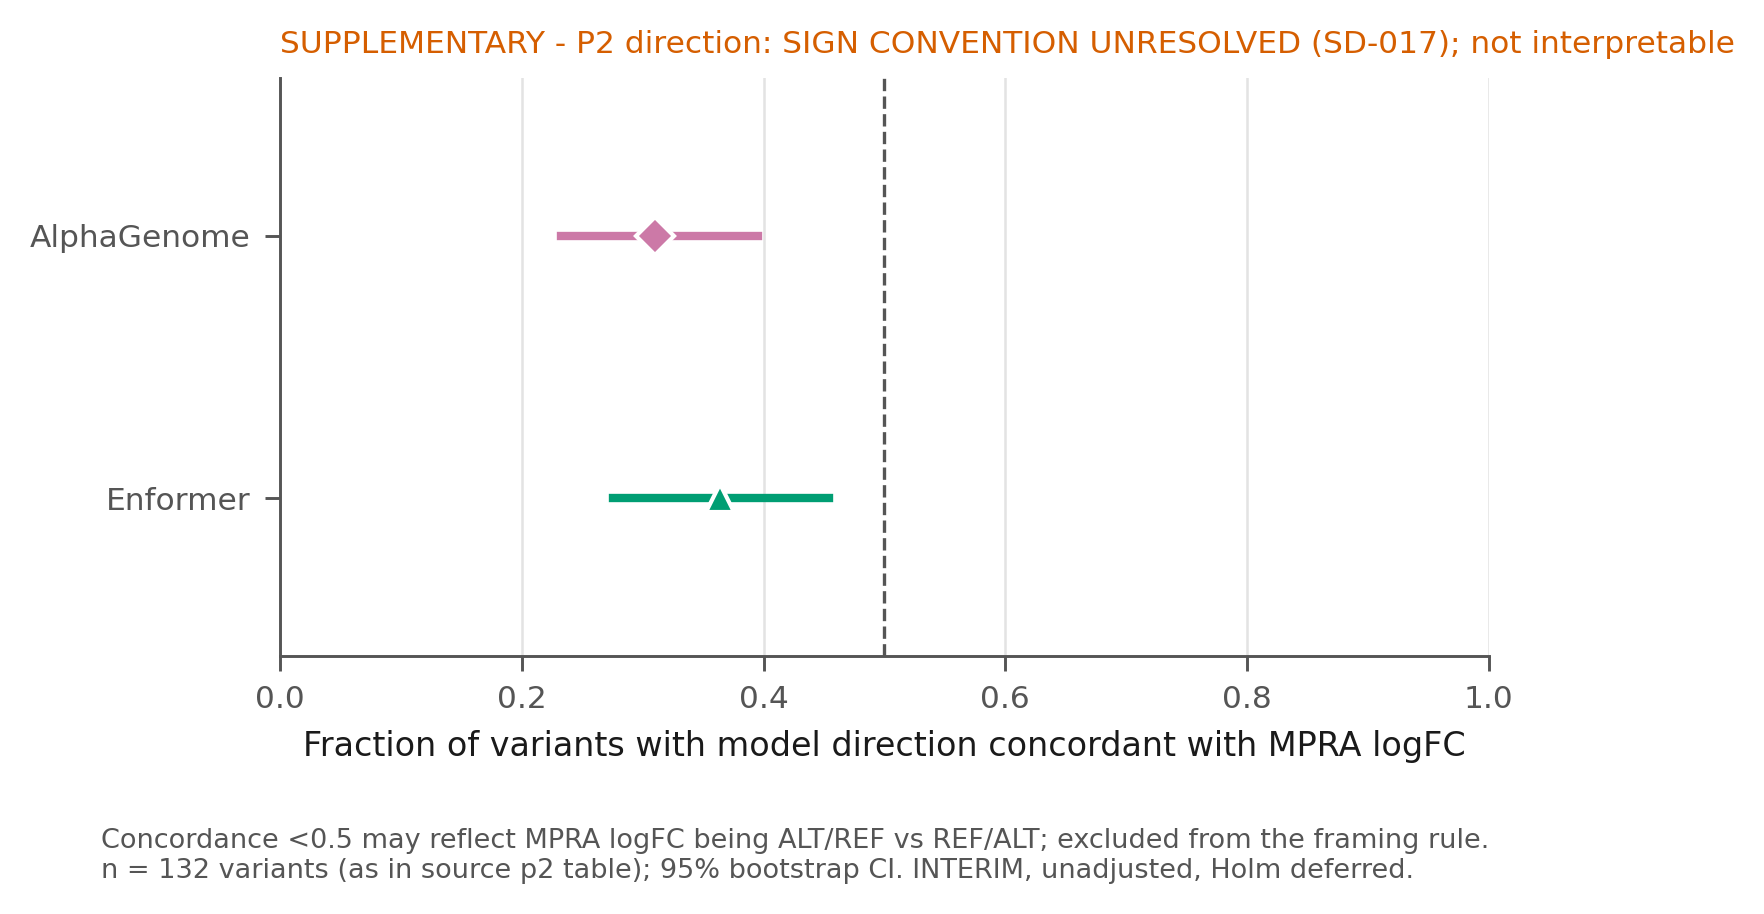
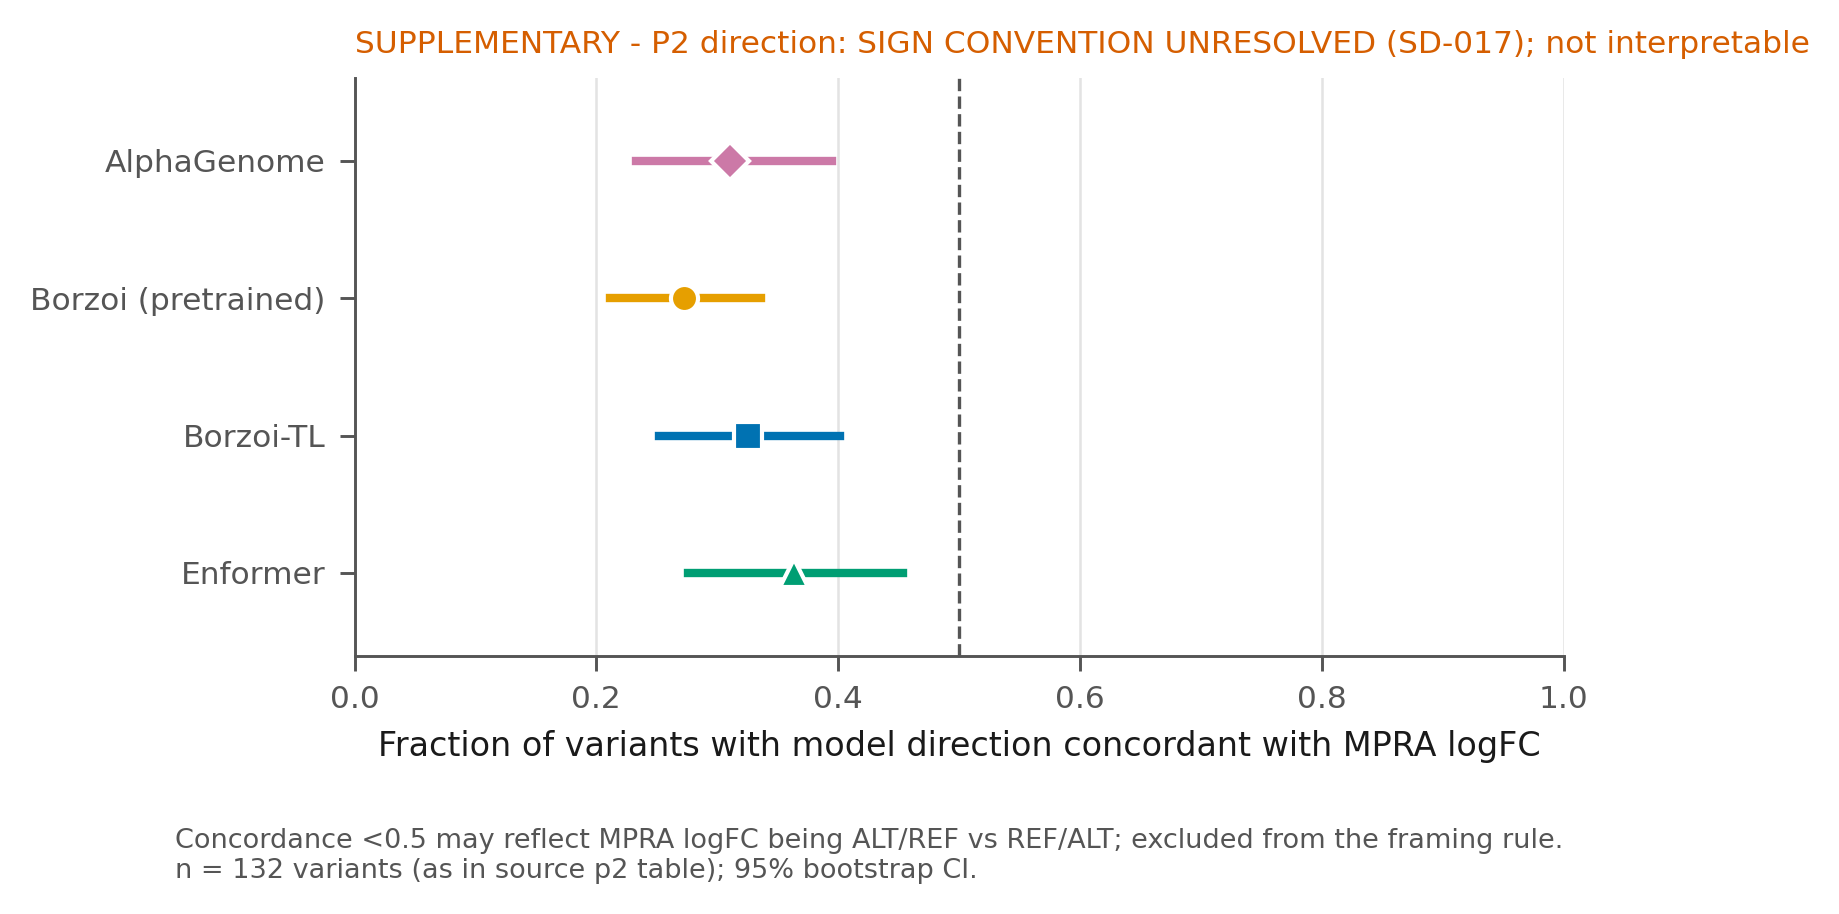
E2 final 4-model MPRA validation (EXP-017), framing B per pre-registered rule (SD-024), fig 5 final

diff --git a/figures/scripts/fig5_e2_interim.py b/figures/scripts/fig5_e2_interim.py
@@ -43,7 +43,7 @@ base["model_label"] = base.model.map({"baseline_neg_log10_dist_tss": "distance t
 base["kind"] = "baseline"
 a = pd.concat([p1, base], ignore_index=True)
 status = p1.status.iloc[0] if "status" in p1 else ""
-interim = (not final) or ("interim" in " ".join(p1.status.astype(str)).lower())
+interim = (not final) or ("interim" in " ".join(p1["status"].astype(str)).lower() if "status" in p1 else False)
 ttl = ("INTERIM, unadjusted, Holm deferred; Borzoi/Borzoi-TL pending" if interim else "FINAL; Holm across headline models (holm_p in source table)")
 n_pos, n_neg, n_reg = int(p1.n_pos.iloc[0]), int(p1.n_neg.iloc[0]), int(p1.n_regions_informative.iloc[0])
 

diff --git a/research_management/EXECUTION_LOG.md b/research_management/EXECUTION_LOG.md
@@ -51,3 +51,8 @@ Chronological log of sessions, commands run, and outcomes. Newest at the bottom.
   Pre-registered SD-008 rule triggered: CRC-specific adaptation claim not supported beyond a supervised linear readout. E5 seeds running.
 - 2026-10-20 08:35 CDT · queue_downstream2.sh finished (all E4/E5/E8 + fold seeds 2–3). Final summaries: 9 fold×seed heads; TL − ridge
   (152 primary) F2 −0.062/−0.062/−0.062, F3 −0.073/−0.072/−0.077, F4 −0.063/−0.062/−0.062 (tile-block CIs exclude 0). Fig 6 regenerated.
+- 2026-10-20 10:55 CDT · EXP-008 Borzoi/TL scoring finalised (10,148 rows, 0 NaN, ref_match 10,148/10,148). E2 FINAL UNBLIND look (all 4 models; Borzoi pretrained + TL unblinded for the first time): ./torch-venv/bin/python analysis/e2_validation/run_e2.py --unblind --out results_phase2/e2_validation/final
+  E2 FINAL (EXP-017): P1 AUROC AG 0.666 [0.590, 0.759], Borzoi 0.640 [0.554, 0.744], TL 0.661 [0.584, 0.768], Enformer 0.674 [0.607, 0.756];
+  Holm p 0.0004 for all; every model beats distance baseline (Δ CI excludes 0). §7 → Framing B. Not better than annotation count (Δ CIs include 0).
+  P2 0.27–0.36 (all below 0.5; SD-017 uninterpretable). Fig 5 regenerated (FINAL); EXP-012 re-run with Borzoi models
+  (Enformer–Borzoi pretrained Spearman 0.80; TL vs others 0.50–0.58).

diff --git a/research_management/SCIENTIFIC_DECISIONS.md b/research_management/SCIENTIFIC_DECISIONS.md
@@ -123,3 +123,8 @@ user-specified details. Decided by: user (2026-10-20), recorded by coordinator.
 - **SD-023 · 2026-10-20 · E4 reporting.** TL − ridge reported with tile-block, TF-cluster and cell-line-cluster CIs (SD-006). Exposure-controlled
   ridge (feature channels matching the target's GSM, or same cell line + TF, removed) and Borzoi-training-fold stratification of test tiles are
   labelled sensitivity analyses; they cannot overturn SD-019.
+- **SD-024 · 2026-10-20 · Framing B adopted per E2_ANALYSIS_PLAN §7 (pre-registered rule; E2 final, EXP-017).** All four headline models meet
+  the three criteria (Holm p < 0.05; CI excludes 0.5; Δ vs distance baseline CI excludes 0). Title = SD-020 B. Required qualifiers: no model is
+  shown to exceed the Chen annotation-count baseline (paired Δ CIs include 0); no model differs from another (paired Δ CIs include 0); signal is
+  weak on the held-out-chromosome subset (descriptive, 10 regions); P2 direction uninterpretable (SD-017); MPRA is episomal; Borzoi/AlphaGenome
+  training includes GTEx and ENCODE data overlapping CRC-relevant assays. Pending scientific-reviewer confirmation (RV-007).
